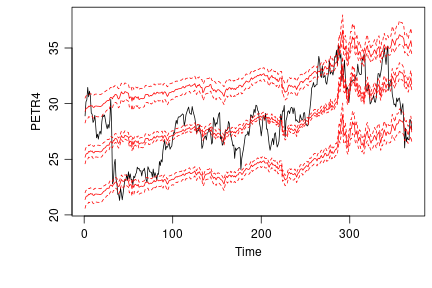
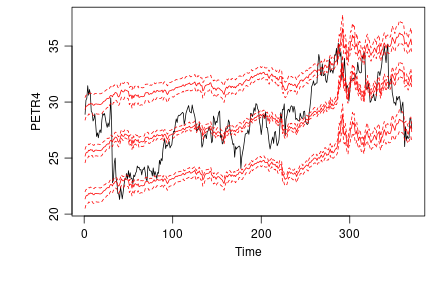
6th version, with corrections

Changed region(s): [[0.0903, 0.0625, 0.963, 0.6875], [0.0903, 0.7188, 0.1806, 0.7812], [0.0903, 0.125, 0.1806, 0.1875]]

diff --git a/reg_quant_din.html b/reg_quant_din.html
@@ -68,7 +68,7 @@ MathJax.Hub.Config({
 
 - Verossimilhança: `\(f(\xx | \theta) = f(x_1, \ldots, x_n | \theta)\)` vista como função de `\(\theta\)`.
 
-**Frequentista:** em geral, máxima verossimilhança, isto é `\(\hat\theta = \ag_\theta f(\xx | \theta)\)`. Comumente, fazemos:
+**Frequentista:** em geral, máxima verossimilhança, isto é, `\(\hat\theta = \ag_\theta f(\xx | \theta)\)`. Comumente, fazemos:
 $$
 \left. \frac{\partial}{\partial \theta} f(\xx | \theta) \right|_{\theta = \hat\theta} = 0.
 $$
@@ -125,10 +125,10 @@ $$
 model{
   # verossimilhanca
   for(i in 1:n){
-    x[i] ~ dnorm(mu, 1/sqrt(sig2)) # a parametrizacao é em funcao da precisão (1/DP)
+    x[i] ~ dnorm(mu, 1/sig2) # a parametrizacao é em funcao da precisão (= 1/Var)
   }
   # dist.'s a priori
-  mu ~ dnorm(xi, 1/sqrt(omega2)) # xi, omega2 hiperparametros
+  mu ~ dnorm(xi, 1/omega2) # xi, omega2 hiperparametros
   sig2 ~ dgamma(alpha, beta) # alpha, beta hiperparametros
 }
 ```
@@ -138,19 +138,19 @@ model{
 
 Exemplo de código em JAGS para o seguinte modelo de regressão:
 
-`$$Y_i|\theta,\sigma^2 \sim N(\mu_i,\sigma^2), \ \mu_i = X_i'\theta, \ X_i = (X_{i1}, \ldots, X_{ip})', \ i=1, \ldots, n;$$`
+`$$Y_i|X_i,\theta,\sigma^2 \sim N(\mu_i,\sigma^2), \ \mu_i = X_i'\theta, \ X_i = (X_{i1}, \ldots, X_{ip})', \ i=1, \ldots, n;$$`
 `$$\theta = (\theta_1, \ldots, \theta_p)' \sim N_p(\xi,\text{diag}(\omega^2)); \ \sigma^2 \sim G(\alpha,\beta).$$`
 
 ```r
 model{
   # verossimilhanca
   for(i in 1:n){
-    y[i] ~ dnorm(mu[i], 1/sqrt(sig2)) # a parametrizacao é em funcao da precisão
+    y[i] ~ dnorm(mu[i], 1/sig2) # em funcao da precisão (= 1/Var)
     mu[i] &lt;- t(theta) %*% x[i,] # repare que em vez de ~ usamos &lt;-
   }
   # dist.'s a priori
   for(j in 1:p){
-    theta[j] ~ dnorm(xi[j], 1/sqrt(omega2)) # xi, omega2 hiperparametros
+    theta[j] ~ dnorm(xi[j], 1/omega2) # xi, omega2 hiperparametros
   }
   sig2 ~ dgamma(alpha, beta) # alpha, beta hiperparametros
 }
@@ -191,15 +191,13 @@ Vamos coletar altura (explicativa) e peso (resposta). Vamos usar o JAGS para imp
 ---
 # Regressão Quantílica - I
 
-O quantil de ordem `\(\tau\)` de uma variável aleatória `\(Y\)` com função de distribuição acumulada `\(F(y) = P(Y \leq y)\)` é definida como
+O quantil de ordem `\(\tau\)` de uma variável aleatória `\(Y\)`, com função de distribuição acumulada `\(F(y) = P(Y \leq y)\)`, é definida como
 `$$Q_\tau(Y) = F^{-1}(\tau) = \inf\{y|F(y) \geq \tau\}.$$`
-Em regressão quantílica, em vez do modelo `\(E(Y_i|X_i, \theta) = X_i'\theta\)`, é considerado
-`$$Q_\tau(Y_i|X_i, \theta) = X_i'\theta^{(\tau)},\ 0 &lt; \tau &lt; 1,$$`
-onde  `\(\theta^{(\tau)} = (\theta^{(\tau)}_1, \ldots, \theta^{(\tau)}_p)'\)` é um vetor de coeficientes que depende de `\(\tau\)`.
+Em regressão quantílica, em vez de considerarmos `\(E(Y_i|X_i, \theta) = X_i'\theta\)`, fazemos
+`$$Q_\tau(Y_i|X_i, \theta) = X_i'\theta^{(\tau)},\ \ 0 &lt; \tau &lt; 1,\ \ \theta^{(\tau)} = (\theta^{(\tau)}_1, \ldots, \theta^{(\tau)}_p)'.$$`
+Considere a função perda `\(\rho_\tau (u) = u(\tau - \mathbb{I}(u &lt; 0))\)`. O valor `\(\hat{q}\)` que minimiza a perda esperada `\(E[\rho_\tau (Y - q)] = \int \rho_\tau (Y - q) f_Y(y)dy\)`, como funçao de `\(q\)`, satisfaz `\(F(\hat{q}) = \tau\)`, ou ainda `\(\hat{q} = Q_\tau(Y)\)` (Koenker, 2005). Similarmente, o quantil amostral `\(\hat{q}\)` é o mínimo da perda média amostral `\(\frac{1}{n}\sum_{i=1}^n(\rho_\tau (Y_i - q))\)`.
 
-Considere a função perda `\(\rho_\tau (u) = u(\tau - \mathbb{I}(u &lt; 0))\)`. Koenker (2005) mostrou que o valor que minimiza a perda esperada `\(E_F(\rho_\tau (Y - q)\)` satisfaz `\(F(q) = \tau\)`, ou ainda `\(q = Q_\tau(Y)\)`.
-
-De maneira similar, o quantil amostral `\(\hat{q}\)` é obtido minimizando-se a perda média `\(\frac{1}{n}\sum_{i=1}^n(\rho_\tau (Y_i - \hat{q}))\)`. Assim, a regressão quantílica é estimada pela solução do seguinte problema de minimização
+Assim, no contexto frequentista, a regressão quantílica é estimada pela solução do seguinte problema de minimização
 `$$\textstyle\hat\theta^{(\tau)} = \text{arg}\min_\theta \left[\frac{1}{n}\sum_{i = 1}^n \rho_\tau(y_i - X_i'\theta)\right].$$`
 ---
 # Regressão Quantílica - II
@@ -207,26 +205,25 @@ Yu and Moyeed (2001) mostraram que o problema de minimização visto anteriormen
 
 Dizemos que `\(Z\)` tem distribuição Laplace assimétrica com parâmetro `\(\tau\)` se sua densidade é dada por
 `$$f_Z(z) = \tau(1-\tau)\exp\{-\rho_\tau(z)\}.$$`
-Nesse caso, escrevemos `\(Z \sim LA(\tau)\)`. Parâmetros de locação `\(\mu\)` e escala `\(\sigma\)` podem ser introduzidos fazendo `\(Z = \frac{Y-\mu}{\sigma}\)`, de modo que `\(f_Y(y) = \frac{1}{\sigma}f_Z(\frac{y-\mu}{\sigma})\)`. Nesse caso, escrevemos `\(Y \sim LA(\mu,\sigma,\tau)\)`.
+Nesse caso, escrevemos `\(Z \sim LA(\tau)\)`. Parâmetros de locação `\(\mu\)` e escala `\(\sigma\)` podem ser introduzidos fazendo `\(Y = \mu + \sigma Y\)`, de modo que `\(f_Y(y) = \frac{1}{\sigma}f_Z(\frac{y-\mu}{\sigma})\)`. Nesse caso, escrevemos `\(Y \sim LA(\mu,\sigma,\tau)\)`.
 
 Assim, no contexto Bayesiano, o modelo de regressão quantílica pode ser especificado como
 `$$Y_i|X_i,\theta^{(\tau)} \sim LA(\mu = X_i'\theta^{(\tau)}, \sigma = 1, \tau = \tau),\ \ \theta^{(\tau)} \sim \pi(\cdot).$$`
-**Problema:** a implementação em JAGS não é direta por não se ter a distribuição Laplace Assimétrica implementada.
+**Problema:** a implementação em JAGS não é direta por não se ter a distribuição Laplace Assimétrica disponibilizada nativamente.
 
 Felizmente, a seguinte propriedade permite contornar esse problema.
 
 ---
 # Regressão Quantílica - III
 
-**Propriedade:** (Kotz, Kozubowski, and Podgórski, 2001) é possível mostrar que, se `\(Y|\mu,\sigma \sim LA(\mu, \sigma, \tau)\)`, então podemos escrever hierarquicamente:
-`$$Y|U,\mu,\sigma \sim N(\mu + a_\tau U, b_\tau \sigma U)\ \ \text{e}\ \ U|\sigma \sim G(1, \sigma),$$`
-onde `\(a_\tau = \frac{1-2\tau}{\tau(1-\tau)}\)` e `\(b_\tau = \frac{2}{\tau(1-\tau)}\)`, e `\(G(\alpha, \beta)\)` denota a densidade gama com esperança `\(\frac{\alpha}{\beta}\)` e variância `\(\frac{\alpha}{\beta^2}\)`.
+**Propriedade:** (Kotz, Kozubowski, and Podgórski, 2001, Proposição 3.2.1) é possível mostrar que, se `\(Y|\mu,\sigma \sim LA(\mu, \sigma, \tau)\)`, então podemos escrever hierarquicamente:
+`$$Y|U,\mu,\sigma \sim N(\mu + a_\tau U, \sigma^2 b_\tau U)\ \ \text{e}\ \ U \sim Exp(1),$$`
+onde `\(a_\tau = \frac{1-2\tau}{\tau(1-\tau)}\)` e `\(b_\tau = \frac{2}{\tau(1-\tau)}\)`, e `\(U \sim Exp(1)\)` denota que `\(U\)` segue distribuição exponencial padrão com densidade `\(f_U(u) = e^{-u}\)`, `\(u&gt;0\)`.
 
 Assim, o modelo de regressão quantílica ficaria totalmente especificado com a seguinte estrutura hierárquica:
-
-`$$Y_i|U_i,\mu_i \sim N(\mu_i + a_\tau U_i, b_\tau U_i), \ \ \mu_i = X_i'\theta^{(\tau)},$$`
-`$$U_i \sim G(1, 1) \ \ \text{e} \ \ \theta^{(\tau)} \sim \pi(\cdot).$$`
-Uma escolha natural para a `\(\pi(\cdot)\)` é dada pela distribuição `\(N_p\)`.
+`$$Y_i|U_i, X_i, \theta^{(\tau)} \sim N(\mu_i + a_\tau U_i, b_\tau U_i), \ \ \mu_i = X_i'\theta^{(\tau)},$$`
+`$$U_i \sim Exp(1) \ \ \text{e} \ \ \theta^{(\tau)} \sim \pi(\cdot).$$`
+Uma escolha natural para a distribuição *a priori* `\(\pi(\cdot)\)` é dada pela distribuição `\(N_p\)`.
 
 ---
 # Regressão Quantílica - IV
@@ -235,22 +232,22 @@ O código JAGS abaixo define o modelo de regressão quantílica.
 
 
 ```r
-model{
+model {
   # verossimilhança
   for(i in 1:n){
-    y[i] ~ dnorm(mu[i] + a_tau*u[i], 1/sqrt(b_tau*u[i])) # DP em vez de Var
-    u[i] ~ dgamma(1,1)
+    y[i] ~ dnorm(mu[i] + a_tau*u[i], 1/(b_tau*u[i])) # Precisão em vez de Var
+    u[i] ~ dexp(1)
     mu[i] &lt;- x[i,] %*% theta_tau
   }
   a_tau &lt;- (1-2*tau)/(tau*(1-tau))
   b_tau &lt;- 2/(tau*(1-tau))
   # dist's a priori
   for(j in 1:p){
-    theta_tau[j] ~ dnorm(xi[j], 1/sqrt(omega2)) # xi, omega2 hiperparametros
+    theta_tau[j] ~ dnorm(xi[j], 1/(omega2))
   }
 }
 ```
-Os objetos `n`, `p`, `tau`, `xi` e `omega2` devem ser fornecidos pelo parâmetro `data` da função `jags`.
+Os objetos `n`, `p`, `tau`, `xi` e `omega2` devem ser fornecidos pelo argumento `data` da função `jags`.
 
 ---
 class: middle, center
@@ -269,30 +266,30 @@ Se os dados `\(Y_t\)` e `\(X_t\)` são observados em função do tempo `\(t\)`. 
 **Solução:**
 - Permitir que os coeficientes evoluam com o tempo, isto é, que `\(\theta^{(\tau)}_t\)`.
 - Mecanismo de evolução de `\(\theta^{(\tau)}_t\)` dado por
-`$$\theta^{(\tau)}_t|\theta^{(\tau)}_{t-1},G_t,W_t \sim N_p(G_t\theta^{(\tau)}_{t-1}, W_t),$$`
-em que `\(G_t\)` é uma matriz `\(p\times p\)` descrevendo os parâmetros de evolução e `\(W_t\)` é uma matriz de covariâncias.
+`$$\theta^{(\tau)}_t|\theta^{(\tau)}_{t-1},G_t,W_t \sim N_p(G_t\theta^{(\tau)}_{t-1}, W_t), \ \ \theta^{(\tau)}_{1} \sim N_p(\xi, \Omega),$$`
+em que `\(G_t\)` é a matriz `\(p\times p\)` com os parâmetros de evolução e `\(W_t\)` é uma matriz de covariâncias que descrevem a equação de evolução e `\(\xi\)` e `\(\Omega\)` são, respectivamente, o vetor de médias e a matriz de covariâncias do vetor de coeficientes da primeira observação.
 
 Para maiores detalhes sobre a descrição do modelo, veja Gonçalves, Migon, and Bastos (2020).
 
 ---
 # Regressão Quantílica Dinâmica - II
-Código JAGS:
+Código JAGS para `\(G_t = \mathbf{I}_p\)`, `\(W_t = \text{diag}(\frac{1}{40000})\)` e `\(\Omega = \text{diag}(\omega^2)\)`:
 
 ```r
-model{
+model {
   # verossimilhança
   for(i in 1:n){
-    y[i] ~ dnorm(mu[i] + a_tau*u[i], 1/sqrt(b_tau*u[i])) # Precision em vez de Var
-    u[i] ~ dgamma(1,1)
+    y[i] ~ dnorm(mu[i] + a_tau*u[i], 1/(b_tau*u[i])) # Precisão em vez de Var
+    u[i] ~ dexp(1)
     mu[i] &lt;- x[i,] %*% theta_tau[i,]
   }
   a_tau &lt;- (1-2*tau)/(tau*(1-tau))
   b_tau &lt;- 2/(tau*(1-tau))
   # dist's a priori
   for(j in 1:p){
-    theta_tau[1,j] ~ dnorm(xi[j], 1/sqrt(omega2)) # xi, omega2 hiperparametros
+    theta_tau[1,j] ~ dnorm(xi[j], 1/(omega2)) # xi, omega2 hiperparametros
     for (i in 2:n) {
-      theta_tau[i,j] ~ dnorm(theta_tau[i-1,j], 1600) # xi, omega2 hiperparametros
+      theta_tau[i,j] ~ dnorm(theta_tau[i-1,j], 40000)
     }
   }
 }
@@ -309,8 +306,8 @@ df &lt;- read.csv(file = 'dados.csv', header = T, dec = ',')
 DT::datatable(df, rownames = FALSE, options = list(pageLength = 5, autoWidth = FALSE, lengthChange = FALSE, searching=FALSE))
 ```
 
-<div id="htmlwidget-8caf9364626e3a01a057" style="width:100%;height:auto;" class="datatables html-widget"></div>
-<script type="application/json" data-for="htmlwidget-8caf9364626e3a01a057">{"x":{"filter":"none","vertical":false,"data":[["04.01.2021","05.01.2021","06.01.2021","07.01.2021","08.01.2021","11.01.2021","12.01.2021","13.01.2021","14.01.2021","15.01.2021","18.01.2021","19.01.2021","20.01.2021","21.01.2021","22.01.2021","25.01.2021","26.01.2021","27.01.2021","28.01.2021","29.01.2021","01.02.2021","02.02.2021","03.02.2021","04.02.2021","05.02.2021","08.02.2021","09.02.2021","10.02.2021","11.02.2021","12.02.2021","15.02.2021","16.02.2021","17.02.2021","18.02.2021","19.02.2021","22.02.2021","23.02.2021","24.02.2021","25.02.2021","26.02.2021","01.03.2021","02.03.2021","03.03.2021","04.03.2021","05.03.2021","08.03.2021","09.03.2021","10.03.2021","11.03.2021","12.03.2021","15.03.2021","16.03.2021","17.03.2021","18.03.2021","19.03.2021","22.03.2021","23.03.2021","24.03.2021","25.03.2021","26.03.2021","29.03.2021","30.03.2021","31.03.2021","01.04.2021","05.04.2021","06.04.2021","07.04.2021","08.04.2021","09.04.2021","12.04.2021","13.04.2021","14.04.2021","15.04.2021","16.04.2021","19.04.2021","20.04.2021","21.04.2021","22.04.2021","23.04.2021","26.04.2021","27.04.2021","28.04.2021","29.04.2021","30.04.2021","03.05.2021","04.05.2021","05.05.2021","06.05.2021","07.05.2021","10.05.2021","11.05.2021","12.05.2021","13.05.2021","14.05.2021","17.05.2021","18.05.2021","19.05.2021","20.05.2021","21.05.2021","24.05.2021","25.05.2021","26.05.2021","27.05.2021","28.05.2021","31.05.2021","01.06.2021","02.06.2021","03.06.2021","04.06.2021","07.06.2021","08.06.2021","09.06.2021","10.06.2021","11.06.2021","14.06.2021","15.06.2021","16.06.2021","17.06.2021","18.06.2021","21.06.2021","22.06.2021","23.06.2021","24.06.2021","25.06.2021","28.06.2021","29.06.2021","30.06.2021","01.07.2021","02.07.2021","05.07.2021","06.07.2021","07.07.2021","08.07.2021","09.07.2021","12.07.2021","13.07.2021","14.07.2021","15.07.2021","16.07.2021","19.07.2021","20.07.2021","21.07.2021","22.07.2021","23.07.2021","26.07.2021","27.07.2021","28.07.2021","29.07.2021","30.07.2021","02.08.2021","03.08.2021","04.08.2021","05.08.2021","06.08.2021","09.08.2021","10.08.2021","11.08.2021","12.08.2021","13.08.2021","16.08.2021","17.08.2021","18.08.2021","19.08.2021","20.08.2021","23.08.2021","24.08.2021","25.08.2021","26.08.2021","27.08.2021","30.08.2021","31.08.2021","01.09.2021","02.09.2021","03.09.2021","06.09.2021","07.09.2021","08.09.2021","09.09.2021","10.09.2021","13.09.2021","14.09.2021","15.09.2021","16.09.2021","17.09.2021","20.09.2021","21.09.2021","22.09.2021","23.09.2021","24.09.2021","27.09.2021","28.09.2021","29.09.2021","30.09.2021","01.10.2021","04.10.2021","05.10.2021","06.10.2021","07.10.2021","08.10.2021","11.10.2021","12.10.2021","13.10.2021","14.10.2021","15.10.2021","18.10.2021","19.10.2021","20.10.2021","21.10.2021","22.10.2021","25.10.2021","26.10.2021","27.10.2021","28.10.2021","29.10.2021","01.11.2021","02.11.2021","03.11.2021","04.11.2021","05.11.2021","08.11.2021","09.11.2021","10.11.2021","11.11.2021","12.11.2021","15.11.2021","16.11.2021","17.11.2021","18.11.2021","19.11.2021","22.11.2021","23.11.2021","24.11.2021","25.11.2021","26.11.2021","29.11.2021","30.11.2021","01.12.2021","02.12.2021","03.12.2021","06.12.2021","07.12.2021","08.12.2021","09.12.2021","10.12.2021","13.12.2021","14.12.2021","15.12.2021","16.12.2021","17.12.2021","20.12.2021","21.12.2021","22.12.2021","23.12.2021","24.12.2021","27.12.2021","28.12.2021","29.12.2021","30.12.2021","31.12.2021","03.01.2022","04.01.2022","05.01.2022","06.01.2022","07.01.2022","10.01.2022","11.01.2022","12.01.2022","13.01.2022","14.01.2022","17.01.2022","18.01.2022","19.01.2022","20.01.2022","21.01.2022","24.01.2022","25.01.2022","26.01.2022","27.01.2022","28.01.2022","31.01.2022","01.02.2022","02.02.2022","03.02.2022","04.02.2022","07.02.2022","08.02.2022","09.02.2022","10.02.2022","11.02.2022","14.02.2022","15.02.2022","16.02.2022","17.02.2022","18.02.2022","21.02.2022","22.02.2022","23.02.2022","24.02.2022","25.02.2022","28.02.2022","01.03.2022","02.03.2022","03.03.2022","04.03.2022","07.03.2022","08.03.2022","09.03.2022","10.03.2022","11.03.2022","14.03.2022","15.03.2022","16.03.2022","17.03.2022","18.03.2022","21.03.2022","22.03.2022","23.03.2022","24.03.2022","25.03.2022","28.03.2022","29.03.2022","30.03.2022","31.03.2022","01.04.2022","04.04.2022","05.04.2022","06.04.2022","07.04.2022","08.04.2022","11.04.2022","12.04.2022","13.04.2022","14.04.2022","18.04.2022","19.04.2022","20.04.2022","21.04.2022","22.04.2022","24.04.2022","25.04.2022","26.04.2022","27.04.2022","28.04.2022","29.04.2022","02.05.2022","03.05.2022","04.05.2022","05.05.2022","06.05.2022","09.05.2022","10.05.2022","11.05.2022","12.05.2022","13.05.2022","16.05.2022","17.05.2022","18.05.2022","19.05.2022","20.05.2022","23.05.2022","24.05.2022","25.05.2022","26.05.2022","27.05.2022","30.05.2022","31.05.2022","01.06.2022","02.06.2022","03.06.2022","06.06.2022","07.06.2022","08.06.2022","09.06.2022","10.06.2022","13.06.2022","14.06.2022","15.06.2022","16.06.2022","17.06.2022","20.06.2022","21.06.2022","22.06.2022","23.06.2022","24.06.2022","27.06.2022","28.06.2022","29.06.2022","30.06.2022"],[51.09,53.6,54.3,54.38,55.99,55.66,56.58,56.06,56.42,55.1,54.75,55.9,56.08,56.1,55.41,55.88,55.91,55.81,55.53,55.88,56.35,57.46,58.46,58.84,59.34,60.56,61.09,61.47,61.14,62.43,63.3,63.35,64.34,63.93,62.91,65.24,65.37,67.04,66.88,66.13,63.69,62.7,64.07,66.74,69.36,68.24,67.52,67.9,69.63,69.22,68.88,68.39,68,63.28,64.53,64.62,60.79,64.41,61.95,64.57,64.98,64.14,63.54,64.86,62.15,62.74,63.16,63.2,62.95,63.28,63.67,66.58,66.94,66.77,67.05,66.57,65.32,65.4,66.11,65.65,66.42,67.27,68.56,67.25,67.56,68.88,68.96,68.09,68.28,68.32,68.55,69.32,67.05,68.71,69.46,68.71,66.66,65.11,66.44,68.46,68.65,68.87,69.46,69.63,69.32,70.25,71.35,71.31,71.89,71.49,72.22,72.22,72.52,72.69,72.86,73.99,74.39,73.08,73.51,74.9,74.81,75.19,75.56,76.18,74.68,74.76,75.13,75.84,76.17,77.16,74.53,73.43,74.12,75.55,75.16,76.49,74.76,73.47,73.59,68.62,69.35,72.23,73.79,74.1,74.5,74.48,74.74,76.05,76.33,72.89,72.41,70.38,71.29,70.7,69.04,70.63,71.44,71.31,70.59,69.51,69.03,68.23,66.45,65.18,68.75,71.05,72.25,71.07,72.7,73.41,72.99,71.59,73.03,72.61,72.22,71.69,72.6,71.45,72.92,73.51,73.6,75.46,75.67,75.34,73.92,74.36,76.19,77.25,78.09,79.53,79.09,78.64,78.52,79.28,81.26,82.56,81.08,81.95,82.39,83.65,83.42,83.18,84,84.86,84.33,85.08,85.82,84.61,85.53,85.99,86.4,84.58,84.32,84.38,84.71,84.72,81.99,80.54,82.74,83.43,84.78,82.64,82.87,82.17,82.05,82.43,80.28,81.24,78.89,79.7,82.31,82.25,82.22,72.72,73.44,70.57,68.87,69.67,69.88,73.08,75.44,75.82,74.42,75.15,74.39,73.7,73.88,75.02,73.52,71.52,73.98,75.29,76.85,76.14,78.6,78.94,79.23,79.32,77.78,78.98,80,80.8,81.99,81.75,80.87,83.72,84.67,84.47,86.06,86.48,87.51,88.44,88.38,87.89,86.27,88.2,88.74,88.17,90.03,91.21,89.16,89.47,91.11,93.27,92.69,90.78,91.55,91.41,94.44,96.48,93.28,94.81,92.97,93.54,95.39,96.84,96.84,99.08,97.93,100.99,104.97,112.93,110.46,118.11,123.21,127.98,111.14,109.33,112.67,106.9,99.91,98.02,106.64,107.93,115.62,115.48,121.6,119.03,120.65,112.48,110.23,113.45,107.91,104.39,107.53,106.64,101.07,100.58,102.78,98.48,104.64,108.78,111.7,113.16,107.25,106.8,108.33,106.65,104.56,102.29,104.61,104.95,107.59,109.34,107.58,104.97,110.14,110.9,112.39,105.94,102.46,107.51,107.45,111.55,114.24,111.93,109.11,112.04,112.55,110.78,110.69,111.12,114.17,119.43,117.6,115.6,113.56,117.61,119.72,119.51,120.57,123.58,123.07,122.01,122.27,121.17,118.51,119.81,113.12,114.13,114.65,111.74,110.05,113.12,115.09,117.98,112.45,109.03],[28.65,28.9,30.16,30.34,31.46,30.61,31.12,30.68,29.17,29.05,28.31,28.48,28.95,28.02,26.93,null,27.25,26.81,27.32,27.52,27.26,28.4,28.98,28.83,28.98,28.51,28.05,27.74,28.14,27.81,null,null,28.52,30.38,28.03,22.8,23.05,24.55,25,23.2,22.8,21.84,21.8,21.3,22.44,21.94,21.36,21.94,22.62,23.15,23.11,23.63,23.14,23.88,23.27,23.69,23.17,23.19,22.7,23.48,23.34,23.64,23.8,24.29,24.13,24.18,23.94,23.98,23.5,23.96,23.98,24.2,23.7,23.13,22.95,24.33,null,24.14,23.88,23.85,23.82,23.4,24.12,23.4,23.8,23.54,23.17,23.71,23.64,24.8,24.44,24.95,24.76,25.8,26.3,26.7,25.85,26.15,26.08,26.28,26.48,25.91,26.08,26.2,26.96,27.4,27.35,null,28.06,28.5,28.17,28.72,28.83,28.8,28.9,28.96,29.08,29.01,28,28.4,29,29.25,29.49,29.69,29.18,29.09,29.03,29.74,29.3,29.01,28.7,28.15,27.4,null,27.58,27.56,28.1,27.49,27.23,25.97,26.19,26.79,27,27.1,26.74,27.35,27.43,27.8,27.6,27.2,26.36,26.55,28.75,28.5,27.95,28.3,28.16,28.66,29.06,29.2,26.84,27.03,26.26,26.4,26.94,27.29,27.63,27.58,27.7,28.4,28.2,27.32,27,26.65,26.21,null,26.29,25.08,26.02,25.8,25.95,26,26.08,25.97,24.08,25.08,25.53,25.95,26.55,27.14,27.19,27.21,27.53,27.12,27.76,29,28.95,28.7,29,29.5,null,29.17,29.86,29.8,29.4,29.24,28.27,27.86,27.1,27.76,28.8,28.83,28.53,29.13,27.71,null,27.71,27.02,26.29,25.81,26.2,26.6,26.88,26.31,null,27.26,27.39,26.69,26.1,26.3,26.61,27.78,29.05,28.39,29.36,29.3,29.84,26.99,28.48,28.78,29.28,29.36,29.1,29.5,29.67,29.61,29.1,29.62,29.32,28.44,28.55,28.4,28.33,null,28.32,29.01,28.7,28.55,null,28.54,29.16,29.19,28.29,28.11,27.99,28.1,28.95,29.53,30.28,31.4,31.56,31.9,31.5,31.57,31.69,31.7,33.3,34.25,33.8,32.5,32.35,33.41,32.35,32.41,32.55,31.9,31.74,32.3,32.77,33.86,32.66,32.83,32.85,32.57,33.05,34.22,34.18,34.8,33.45,null,null,35.26,34.82,34.08,34.5,32,32.6,32.6,33.91,32.43,31.14,31.5,31.25,30.09,30.91,31.99,31.93,32.05,32.15,32.06,32.13,32.5,32.57,33.55,32.9,32.66,32.6,32.64,34.07,33.9,34.4,34.37,31.6,31.16,31.16,31.65,null,31.05,null,29.97,30.09,30.37,30.45,30.75,30.17,30.12,30.6,31.81,32.69,32.7,32.36,32.78,33.26,34.1,34.25,35,34.18,33.52,34.59,35.18,31.2,31.7,32.02,32.15,30.84,30.41,29.9,29.97,29.71,30.5,30.19,30.42,30.51,30.01,29.02,29.66,30,null,28.17,26.02,27.8,26.58,26.98,26.76,26.82,28.58,28.48,27.65]],"container":"<table class=\"display\">\n  <thead>\n    <tr>\n      <th>Data<\/th>\n      <th>Brent_F<\/th>\n      <th>Petr4_A<\/th>\n    <\/tr>\n  <\/thead>\n<\/table>","options":{"pageLength":5,"autoWidth":false,"lengthChange":false,"searching":false,"columnDefs":[{"className":"dt-right","targets":[1,2]}],"order":[],"orderClasses":false}},"evals":[],"jsHooks":[]}</script>
+<div id="htmlwidget-d129ea50301097bae787" style="width:100%;height:auto;" class="datatables html-widget"></div>
+<script type="application/json" data-for="htmlwidget-d129ea50301097bae787">{"x":{"filter":"none","vertical":false,"data":[["04.01.2021","05.01.2021","06.01.2021","07.01.2021","08.01.2021","11.01.2021","12.01.2021","13.01.2021","14.01.2021","15.01.2021","18.01.2021","19.01.2021","20.01.2021","21.01.2021","22.01.2021","25.01.2021","26.01.2021","27.01.2021","28.01.2021","29.01.2021","01.02.2021","02.02.2021","03.02.2021","04.02.2021","05.02.2021","08.02.2021","09.02.2021","10.02.2021","11.02.2021","12.02.2021","15.02.2021","16.02.2021","17.02.2021","18.02.2021","19.02.2021","22.02.2021","23.02.2021","24.02.2021","25.02.2021","26.02.2021","01.03.2021","02.03.2021","03.03.2021","04.03.2021","05.03.2021","08.03.2021","09.03.2021","10.03.2021","11.03.2021","12.03.2021","15.03.2021","16.03.2021","17.03.2021","18.03.2021","19.03.2021","22.03.2021","23.03.2021","24.03.2021","25.03.2021","26.03.2021","29.03.2021","30.03.2021","31.03.2021","01.04.2021","05.04.2021","06.04.2021","07.04.2021","08.04.2021","09.04.2021","12.04.2021","13.04.2021","14.04.2021","15.04.2021","16.04.2021","19.04.2021","20.04.2021","21.04.2021","22.04.2021","23.04.2021","26.04.2021","27.04.2021","28.04.2021","29.04.2021","30.04.2021","03.05.2021","04.05.2021","05.05.2021","06.05.2021","07.05.2021","10.05.2021","11.05.2021","12.05.2021","13.05.2021","14.05.2021","17.05.2021","18.05.2021","19.05.2021","20.05.2021","21.05.2021","24.05.2021","25.05.2021","26.05.2021","27.05.2021","28.05.2021","31.05.2021","01.06.2021","02.06.2021","03.06.2021","04.06.2021","07.06.2021","08.06.2021","09.06.2021","10.06.2021","11.06.2021","14.06.2021","15.06.2021","16.06.2021","17.06.2021","18.06.2021","21.06.2021","22.06.2021","23.06.2021","24.06.2021","25.06.2021","28.06.2021","29.06.2021","30.06.2021","01.07.2021","02.07.2021","05.07.2021","06.07.2021","07.07.2021","08.07.2021","09.07.2021","12.07.2021","13.07.2021","14.07.2021","15.07.2021","16.07.2021","19.07.2021","20.07.2021","21.07.2021","22.07.2021","23.07.2021","26.07.2021","27.07.2021","28.07.2021","29.07.2021","30.07.2021","02.08.2021","03.08.2021","04.08.2021","05.08.2021","06.08.2021","09.08.2021","10.08.2021","11.08.2021","12.08.2021","13.08.2021","16.08.2021","17.08.2021","18.08.2021","19.08.2021","20.08.2021","23.08.2021","24.08.2021","25.08.2021","26.08.2021","27.08.2021","30.08.2021","31.08.2021","01.09.2021","02.09.2021","03.09.2021","06.09.2021","07.09.2021","08.09.2021","09.09.2021","10.09.2021","13.09.2021","14.09.2021","15.09.2021","16.09.2021","17.09.2021","20.09.2021","21.09.2021","22.09.2021","23.09.2021","24.09.2021","27.09.2021","28.09.2021","29.09.2021","30.09.2021","01.10.2021","04.10.2021","05.10.2021","06.10.2021","07.10.2021","08.10.2021","11.10.2021","12.10.2021","13.10.2021","14.10.2021","15.10.2021","18.10.2021","19.10.2021","20.10.2021","21.10.2021","22.10.2021","25.10.2021","26.10.2021","27.10.2021","28.10.2021","29.10.2021","01.11.2021","02.11.2021","03.11.2021","04.11.2021","05.11.2021","08.11.2021","09.11.2021","10.11.2021","11.11.2021","12.11.2021","15.11.2021","16.11.2021","17.11.2021","18.11.2021","19.11.2021","22.11.2021","23.11.2021","24.11.2021","25.11.2021","26.11.2021","29.11.2021","30.11.2021","01.12.2021","02.12.2021","03.12.2021","06.12.2021","07.12.2021","08.12.2021","09.12.2021","10.12.2021","13.12.2021","14.12.2021","15.12.2021","16.12.2021","17.12.2021","20.12.2021","21.12.2021","22.12.2021","23.12.2021","24.12.2021","27.12.2021","28.12.2021","29.12.2021","30.12.2021","31.12.2021","03.01.2022","04.01.2022","05.01.2022","06.01.2022","07.01.2022","10.01.2022","11.01.2022","12.01.2022","13.01.2022","14.01.2022","17.01.2022","18.01.2022","19.01.2022","20.01.2022","21.01.2022","24.01.2022","25.01.2022","26.01.2022","27.01.2022","28.01.2022","31.01.2022","01.02.2022","02.02.2022","03.02.2022","04.02.2022","07.02.2022","08.02.2022","09.02.2022","10.02.2022","11.02.2022","14.02.2022","15.02.2022","16.02.2022","17.02.2022","18.02.2022","21.02.2022","22.02.2022","23.02.2022","24.02.2022","25.02.2022","28.02.2022","01.03.2022","02.03.2022","03.03.2022","04.03.2022","07.03.2022","08.03.2022","09.03.2022","10.03.2022","11.03.2022","14.03.2022","15.03.2022","16.03.2022","17.03.2022","18.03.2022","21.03.2022","22.03.2022","23.03.2022","24.03.2022","25.03.2022","28.03.2022","29.03.2022","30.03.2022","31.03.2022","01.04.2022","04.04.2022","05.04.2022","06.04.2022","07.04.2022","08.04.2022","11.04.2022","12.04.2022","13.04.2022","14.04.2022","18.04.2022","19.04.2022","20.04.2022","21.04.2022","22.04.2022","24.04.2022","25.04.2022","26.04.2022","27.04.2022","28.04.2022","29.04.2022","02.05.2022","03.05.2022","04.05.2022","05.05.2022","06.05.2022","09.05.2022","10.05.2022","11.05.2022","12.05.2022","13.05.2022","16.05.2022","17.05.2022","18.05.2022","19.05.2022","20.05.2022","23.05.2022","24.05.2022","25.05.2022","26.05.2022","27.05.2022","30.05.2022","31.05.2022","01.06.2022","02.06.2022","03.06.2022","06.06.2022","07.06.2022","08.06.2022","09.06.2022","10.06.2022","13.06.2022","14.06.2022","15.06.2022","16.06.2022","17.06.2022","20.06.2022","21.06.2022","22.06.2022","23.06.2022","24.06.2022","27.06.2022","28.06.2022","29.06.2022","30.06.2022"],[51.09,53.6,54.3,54.38,55.99,55.66,56.58,56.06,56.42,55.1,54.75,55.9,56.08,56.1,55.41,55.88,55.91,55.81,55.53,55.88,56.35,57.46,58.46,58.84,59.34,60.56,61.09,61.47,61.14,62.43,63.3,63.35,64.34,63.93,62.91,65.24,65.37,67.04,66.88,66.13,63.69,62.7,64.07,66.74,69.36,68.24,67.52,67.9,69.63,69.22,68.88,68.39,68,63.28,64.53,64.62,60.79,64.41,61.95,64.57,64.98,64.14,63.54,64.86,62.15,62.74,63.16,63.2,62.95,63.28,63.67,66.58,66.94,66.77,67.05,66.57,65.32,65.4,66.11,65.65,66.42,67.27,68.56,67.25,67.56,68.88,68.96,68.09,68.28,68.32,68.55,69.32,67.05,68.71,69.46,68.71,66.66,65.11,66.44,68.46,68.65,68.87,69.46,69.63,69.32,70.25,71.35,71.31,71.89,71.49,72.22,72.22,72.52,72.69,72.86,73.99,74.39,73.08,73.51,74.9,74.81,75.19,75.56,76.18,74.68,74.76,75.13,75.84,76.17,77.16,74.53,73.43,74.12,75.55,75.16,76.49,74.76,73.47,73.59,68.62,69.35,72.23,73.79,74.1,74.5,74.48,74.74,76.05,76.33,72.89,72.41,70.38,71.29,70.7,69.04,70.63,71.44,71.31,70.59,69.51,69.03,68.23,66.45,65.18,68.75,71.05,72.25,71.07,72.7,73.41,72.99,71.59,73.03,72.61,72.22,71.69,72.6,71.45,72.92,73.51,73.6,75.46,75.67,75.34,73.92,74.36,76.19,77.25,78.09,79.53,79.09,78.64,78.52,79.28,81.26,82.56,81.08,81.95,82.39,83.65,83.42,83.18,84,84.86,84.33,85.08,85.82,84.61,85.53,85.99,86.4,84.58,84.32,84.38,84.71,84.72,81.99,80.54,82.74,83.43,84.78,82.64,82.87,82.17,82.05,82.43,80.28,81.24,78.89,79.7,82.31,82.25,82.22,72.72,73.44,70.57,68.87,69.67,69.88,73.08,75.44,75.82,74.42,75.15,74.39,73.7,73.88,75.02,73.52,71.52,73.98,75.29,76.85,76.14,78.6,78.94,79.23,79.32,77.78,78.98,80,80.8,81.99,81.75,80.87,83.72,84.67,84.47,86.06,86.48,87.51,88.44,88.38,87.89,86.27,88.2,88.74,88.17,90.03,91.21,89.16,89.47,91.11,93.27,92.69,90.78,91.55,91.41,94.44,96.48,93.28,94.81,92.97,93.54,95.39,96.84,96.84,99.08,97.93,100.99,104.97,112.93,110.46,118.11,123.21,127.98,111.14,109.33,112.67,106.9,99.91,98.02,106.64,107.93,115.62,115.48,121.6,119.03,120.65,112.48,110.23,113.45,107.91,104.39,107.53,106.64,101.07,100.58,102.78,98.48,104.64,108.78,111.7,113.16,107.25,106.8,108.33,106.65,104.56,102.29,104.61,104.95,107.59,109.34,107.58,104.97,110.14,110.9,112.39,105.94,102.46,107.51,107.45,111.55,114.24,111.93,109.11,112.04,112.55,110.78,110.69,111.12,114.17,119.43,117.6,115.6,113.56,117.61,119.72,119.51,120.57,123.58,123.07,122.01,122.27,121.17,118.51,119.81,113.12,114.13,114.65,111.74,110.05,113.12,115.09,117.98,112.45,109.03],[28.65,28.9,30.16,30.34,31.46,30.61,31.12,30.68,29.17,29.05,28.31,28.48,28.95,28.02,26.93,null,27.25,26.81,27.32,27.52,27.26,28.4,28.98,28.83,28.98,28.51,28.05,27.74,28.14,27.81,null,null,28.52,30.38,28.03,22.8,23.05,24.55,25,23.2,22.8,21.84,21.8,21.3,22.44,21.94,21.36,21.94,22.62,23.15,23.11,23.63,23.14,23.88,23.27,23.69,23.17,23.19,22.7,23.48,23.34,23.64,23.8,24.29,24.13,24.18,23.94,23.98,23.5,23.96,23.98,24.2,23.7,23.13,22.95,24.33,null,24.14,23.88,23.85,23.82,23.4,24.12,23.4,23.8,23.54,23.17,23.71,23.64,24.8,24.44,24.95,24.76,25.8,26.3,26.7,25.85,26.15,26.08,26.28,26.48,25.91,26.08,26.2,26.96,27.4,27.35,null,28.06,28.5,28.17,28.72,28.83,28.8,28.9,28.96,29.08,29.01,28,28.4,29,29.25,29.49,29.69,29.18,29.09,29.03,29.74,29.3,29.01,28.7,28.15,27.4,null,27.58,27.56,28.1,27.49,27.23,25.97,26.19,26.79,27,27.1,26.74,27.35,27.43,27.8,27.6,27.2,26.36,26.55,28.75,28.5,27.95,28.3,28.16,28.66,29.06,29.2,26.84,27.03,26.26,26.4,26.94,27.29,27.63,27.58,27.7,28.4,28.2,27.32,27,26.65,26.21,null,26.29,25.08,26.02,25.8,25.95,26,26.08,25.97,24.08,25.08,25.53,25.95,26.55,27.14,27.19,27.21,27.53,27.12,27.76,29,28.95,28.7,29,29.5,null,29.17,29.86,29.8,29.4,29.24,28.27,27.86,27.1,27.76,28.8,28.83,28.53,29.13,27.71,null,27.71,27.02,26.29,25.81,26.2,26.6,26.88,26.31,null,27.26,27.39,26.69,26.1,26.3,26.61,27.78,29.05,28.39,29.36,29.3,29.84,26.99,28.48,28.78,29.28,29.36,29.1,29.5,29.67,29.61,29.1,29.62,29.32,28.44,28.55,28.4,28.33,null,28.32,29.01,28.7,28.55,null,28.54,29.16,29.19,28.29,28.11,27.99,28.1,28.95,29.53,30.28,31.4,31.56,31.9,31.5,31.57,31.69,31.7,33.3,34.25,33.8,32.5,32.35,33.41,32.35,32.41,32.55,31.9,31.74,32.3,32.77,33.86,32.66,32.83,32.85,32.57,33.05,34.22,34.18,34.8,33.45,null,null,35.26,34.82,34.08,34.5,32,32.6,32.6,33.91,32.43,31.14,31.5,31.25,30.09,30.91,31.99,31.93,32.05,32.15,32.06,32.13,32.5,32.57,33.55,32.9,32.66,32.6,32.64,34.07,33.9,34.4,34.37,31.6,31.16,31.16,31.65,null,31.05,null,29.97,30.09,30.37,30.45,30.75,30.17,30.12,30.6,31.81,32.69,32.7,32.36,32.78,33.26,34.1,34.25,35,34.18,33.52,34.59,35.18,31.2,31.7,32.02,32.15,30.84,30.41,29.9,29.97,29.71,30.5,30.19,30.42,30.51,30.01,29.02,29.66,30,null,28.17,26.02,27.8,26.58,26.98,26.76,26.82,28.58,28.48,27.65]],"container":"<table class=\"display\">\n  <thead>\n    <tr>\n      <th>Data<\/th>\n      <th>Brent_F<\/th>\n      <th>Petr4_A<\/th>\n    <\/tr>\n  <\/thead>\n<\/table>","options":{"pageLength":5,"autoWidth":false,"lengthChange":false,"searching":false,"columnDefs":[{"className":"dt-right","targets":[1,2]}],"order":[],"orderClasses":false}},"evals":[],"jsHooks":[]}</script>
 
 ---
 # Exemplo - Petróleo Brent x PETR4
@@ -350,18 +347,18 @@ Iniciemos com uma regressão quantílica usual. O seguinte modelo `JAGS` foi esc
 
 
 ```r
-model{
+model {
   # verossimilhança
   for(i in 1:n){
-    y[i] ~ dnorm(mu[i] + a_tau*u[i], 1/sqrt(b_tau*u[i])) # DP em vez de Var
-    u[i] ~ dgamma(1,1)
+    y[i] ~ dnorm(mu[i] + a_tau*u[i], 1/(b_tau*u[i])) # Precisão em vez de Var
+    u[i] ~ dexp(1)
     mu[i] &lt;- x[i,] %*% theta_tau
   }
   a_tau &lt;- (1-2*tau)/(tau*(1-tau))
   b_tau &lt;- 2/(tau*(1-tau))
   # dist's a priori
   for(j in 1:p){
-    theta_tau[j] ~ dnorm(xi[j], 1/sqrt(omega2)) # xi, omega2 hiperparametros
+    theta_tau[j] ~ dnorm(xi[j], 1/(omega2))
   }
 }
 ```
@@ -373,7 +370,7 @@ Agora rodaremos o modelo utilizando a função `jags` do pacote `R2jags`.
 
 ```r
 X &lt;- cbind(1,x); n &lt;- dim(X)[1]; p &lt;- dim(X)[2] # primeira coluna de 1's (intercepto)
-xi &lt;- rep(0, p); It &lt;- 50000; Bi &lt;- 45000; Nt &lt;- 10; colnames(X) &lt;- c('Intercept', 'Brent')
+xi &lt;- rep(0, p); It &lt;- 50000; Bi &lt;- 49000; Nt &lt;- 10; colnames(X) &lt;- c('Intercept', 'Brent')
 jags.data &lt;- list(y = y, x = X, n = n, p = p, tau = .5,
                   xi = xi, omega2 = 10000) #hiperparâmetros
 jags.params &lt;- c("theta_tau")
@@ -397,18 +394,18 @@ kableExtra::kbl(round(apply(theta_tau, 2, quantile, probs=c(.025, .5, .975)), 3)
 &lt;tbody&gt;
   &lt;tr&gt;
    &lt;td style="text-align:left;"&gt; 2.5% &lt;/td&gt;
-   &lt;td style="text-align:right;"&gt; 18.332 &lt;/td&gt;
+   &lt;td style="text-align:right;"&gt; 18.222 &lt;/td&gt;
    &lt;td style="text-align:right;"&gt; 0.092 &lt;/td&gt;
   &lt;/tr&gt;
   &lt;tr&gt;
    &lt;td style="text-align:left;"&gt; 50% &lt;/td&gt;
-   &lt;td style="text-align:right;"&gt; 19.699 &lt;/td&gt;
+   &lt;td style="text-align:right;"&gt; 19.764 &lt;/td&gt;
    &lt;td style="text-align:right;"&gt; 0.107 &lt;/td&gt;
   &lt;/tr&gt;
   &lt;tr&gt;
    &lt;td style="text-align:left;"&gt; 97.5% &lt;/td&gt;
-   &lt;td style="text-align:right;"&gt; 21.052 &lt;/td&gt;
-   &lt;td style="text-align:right;"&gt; 0.123 &lt;/td&gt;
+   &lt;td style="text-align:right;"&gt; 21.131 &lt;/td&gt;
+   &lt;td style="text-align:right;"&gt; 0.124 &lt;/td&gt;
   &lt;/tr&gt;
 &lt;/tbody&gt;
 &lt;/table&gt;
@@ -451,42 +448,42 @@ th_res &lt;- round(apply(theta_tau, 2, quantile, probs=c(.025, .5, .975)), 3); k
 &lt;tbody&gt;
   &lt;tr&gt;
    &lt;td style="text-align:left;"&gt; 2.5% &lt;/td&gt;
-   &lt;td style="text-align:right;"&gt; 14.607 &lt;/td&gt;
+   &lt;td style="text-align:right;"&gt; 14.595 &lt;/td&gt;
    &lt;td style="text-align:right;"&gt; 0.078 &lt;/td&gt;
-   &lt;td style="text-align:right;"&gt; 14.941 &lt;/td&gt;
-   &lt;td style="text-align:right;"&gt; 0.111 &lt;/td&gt;
-   &lt;td style="text-align:right;"&gt; 18.355 &lt;/td&gt;
-   &lt;td style="text-align:right;"&gt; 0.091 &lt;/td&gt;
-   &lt;td style="text-align:right;"&gt; 19.503 &lt;/td&gt;
-   &lt;td style="text-align:right;"&gt; 0.096 &lt;/td&gt;
-   &lt;td style="text-align:right;"&gt; 22.010 &lt;/td&gt;
-   &lt;td style="text-align:right;"&gt; 0.070 &lt;/td&gt;
+   &lt;td style="text-align:right;"&gt; 15.003 &lt;/td&gt;
+   &lt;td style="text-align:right;"&gt; 0.110 &lt;/td&gt;
+   &lt;td style="text-align:right;"&gt; 18.354 &lt;/td&gt;
+   &lt;td style="text-align:right;"&gt; 0.093 &lt;/td&gt;
+   &lt;td style="text-align:right;"&gt; 19.580 &lt;/td&gt;
+   &lt;td style="text-align:right;"&gt; 0.093 &lt;/td&gt;
+   &lt;td style="text-align:right;"&gt; 22.302 &lt;/td&gt;
+   &lt;td style="text-align:right;"&gt; 0.072 &lt;/td&gt;
   &lt;/tr&gt;
   &lt;tr&gt;
    &lt;td style="text-align:left;"&gt; 50% &lt;/td&gt;
-   &lt;td style="text-align:right;"&gt; 16.320 &lt;/td&gt;
+   &lt;td style="text-align:right;"&gt; 16.332 &lt;/td&gt;
    &lt;td style="text-align:right;"&gt; 0.099 &lt;/td&gt;
-   &lt;td style="text-align:right;"&gt; 16.142 &lt;/td&gt;
-   &lt;td style="text-align:right;"&gt; 0.129 &lt;/td&gt;
-   &lt;td style="text-align:right;"&gt; 19.720 &lt;/td&gt;
+   &lt;td style="text-align:right;"&gt; 16.212 &lt;/td&gt;
+   &lt;td style="text-align:right;"&gt; 0.128 &lt;/td&gt;
+   &lt;td style="text-align:right;"&gt; 19.687 &lt;/td&gt;
    &lt;td style="text-align:right;"&gt; 0.107 &lt;/td&gt;
-   &lt;td style="text-align:right;"&gt; 20.792 &lt;/td&gt;
+   &lt;td style="text-align:right;"&gt; 20.821 &lt;/td&gt;
    &lt;td style="text-align:right;"&gt; 0.114 &lt;/td&gt;
-   &lt;td style="text-align:right;"&gt; 24.452 &lt;/td&gt;
-   &lt;td style="text-align:right;"&gt; 0.095 &lt;/td&gt;
+   &lt;td style="text-align:right;"&gt; 24.553 &lt;/td&gt;
+   &lt;td style="text-align:right;"&gt; 0.094 &lt;/td&gt;
   &lt;/tr&gt;
   &lt;tr&gt;
    &lt;td style="text-align:left;"&gt; 97.5% &lt;/td&gt;
-   &lt;td style="text-align:right;"&gt; 17.953 &lt;/td&gt;
-   &lt;td style="text-align:right;"&gt; 0.119 &lt;/td&gt;
-   &lt;td style="text-align:right;"&gt; 17.633 &lt;/td&gt;
-   &lt;td style="text-align:right;"&gt; 0.144 &lt;/td&gt;
-   &lt;td style="text-align:right;"&gt; 21.116 &lt;/td&gt;
-   &lt;td style="text-align:right;"&gt; 0.123 &lt;/td&gt;
-   &lt;td style="text-align:right;"&gt; 22.155 &lt;/td&gt;
-   &lt;td style="text-align:right;"&gt; 0.130 &lt;/td&gt;
-   &lt;td style="text-align:right;"&gt; 26.866 &lt;/td&gt;
-   &lt;td style="text-align:right;"&gt; 0.123 &lt;/td&gt;
+   &lt;td style="text-align:right;"&gt; 17.875 &lt;/td&gt;
+   &lt;td style="text-align:right;"&gt; 0.117 &lt;/td&gt;
+   &lt;td style="text-align:right;"&gt; 17.708 &lt;/td&gt;
+   &lt;td style="text-align:right;"&gt; 0.143 &lt;/td&gt;
+   &lt;td style="text-align:right;"&gt; 20.961 &lt;/td&gt;
+   &lt;td style="text-align:right;"&gt; 0.122 &lt;/td&gt;
+   &lt;td style="text-align:right;"&gt; 22.437 &lt;/td&gt;
+   &lt;td style="text-align:right;"&gt; 0.129 &lt;/td&gt;
+   &lt;td style="text-align:right;"&gt; 26.622 &lt;/td&gt;
+   &lt;td style="text-align:right;"&gt; 0.121 &lt;/td&gt;
   &lt;/tr&gt;
 &lt;/tbody&gt;
 &lt;/table&gt;
@@ -539,7 +536,7 @@ cum_qts
 
 ```
 ##       0.05        0.5       0.95 
-## 0.04864865 0.50540541 0.95135135
+## 0.04324324 0.50540541 0.95135135
 ```
 
 ---
@@ -563,24 +560,23 @@ for (i in 1:length(pred_qts)) {
 
 ---
 # Exemplo - Petróleo Brent x PETR4
-Vamos agora ajustar o modelo de regressão quantílica dinâmica com o seguinte código JAGS salvo no arquivo `model_reg_quant_din.txt`.
+Vamos agora ajustar o modelo de regressão quantílica dinâmica com o seguinte código JAGS salvo no arquivo `model_reg_quant_din.txt`. Coeficiente do intercepto fixo e precisão da equação de evolução foi fixada em 40000 para garantir que `\(P(-0.01 &lt; \theta_{t, \text{Brent}}^{(\tau)} - \theta_{t-1,\text{Brent}}^{(\tau)} &lt; 0.01) \approx 0.95\)`.
 
 
 ```r
-model{
+model {
   # verossimilhança
   for(i in 1:n){
-    y[i] ~ dnorm(mu[i] + a_tau*u[i], 1/sqrt(b_tau*u[i])) # Precision em vez de Var
-    u[i] ~ dgamma(1,1); mu[i] &lt;- x[i,] %*% theta_tau[i,]
+    y[i] ~ dnorm(mu[i] + a_tau*u[i], 1/(b_tau*u[i])) # Precisão em vez de Var
+    u[i] ~ dexp(1); mu[i] &lt;- x[i,] %*% theta_tau[i,]
   }
   a_tau &lt;- (1-2*tau)/(tau*(1-tau)); b_tau &lt;- 2/(tau*(1-tau))
   # dist's a priori
-  theta_tau[1,1] ~ dnorm(xi[1], 1/sqrt(omega2)) # xi, omega2 hiperparametros
-  for (i in 2:n) theta_tau[i,1] &lt;- theta_tau[i-1,1]
-  }
+  theta_tau[1,1] ~ dnorm(xi[1], 1/(omega2)) # xi, omega2 hiperparametros
+  for (i in 2:n){theta_tau[i,1] &lt;- theta_tau[i-1,1]}
   for(j in 2:p){
-    theta_tau[1,j] ~ dnorm(xi[j], 1/sqrt(omega2)) # xi, omega2 hiperparametros
-    for (i in 2:n) theta_tau[i,j] ~ dnorm(theta_tau[i-1,j], 400000) # xi, omega2 hiperparametros
+    theta_tau[1,j] ~ dnorm(xi[j], 1/(omega2)) # xi, omega2 hiperparametros
+    for (i in 2:n){theta_tau[i,j] ~ dnorm(theta_tau[i-1,j], 40000)}
   }
 }
 ```
@@ -660,8 +656,8 @@ cum_qts
 ```
 
 ```
-##       0.05        0.5       0.95 
-## 0.03513514 0.50270270 0.95675676
+##        0.05         0.5        0.95 
+## 0.008108108 0.502702703 0.986486486
 ```
 
 ---
